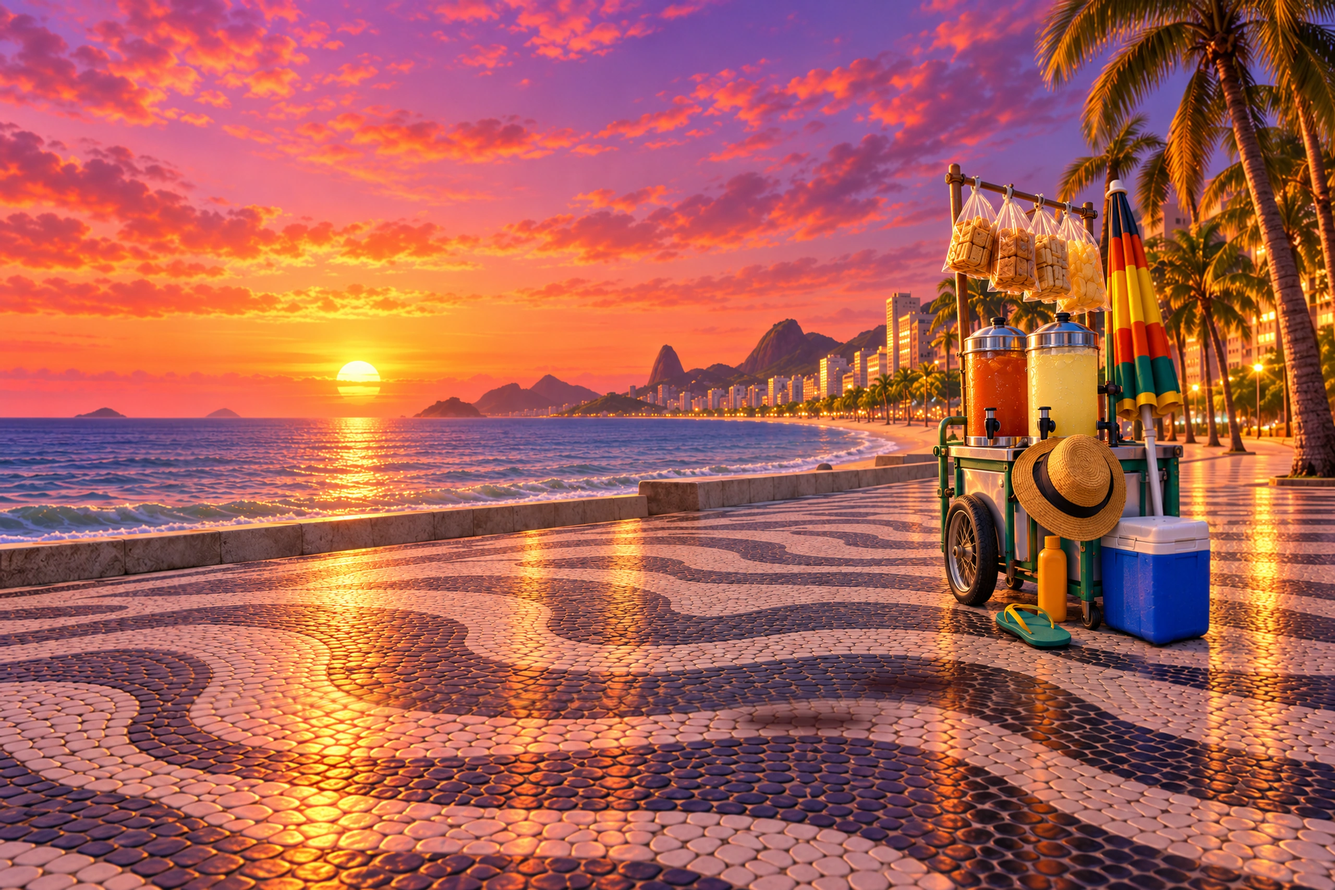
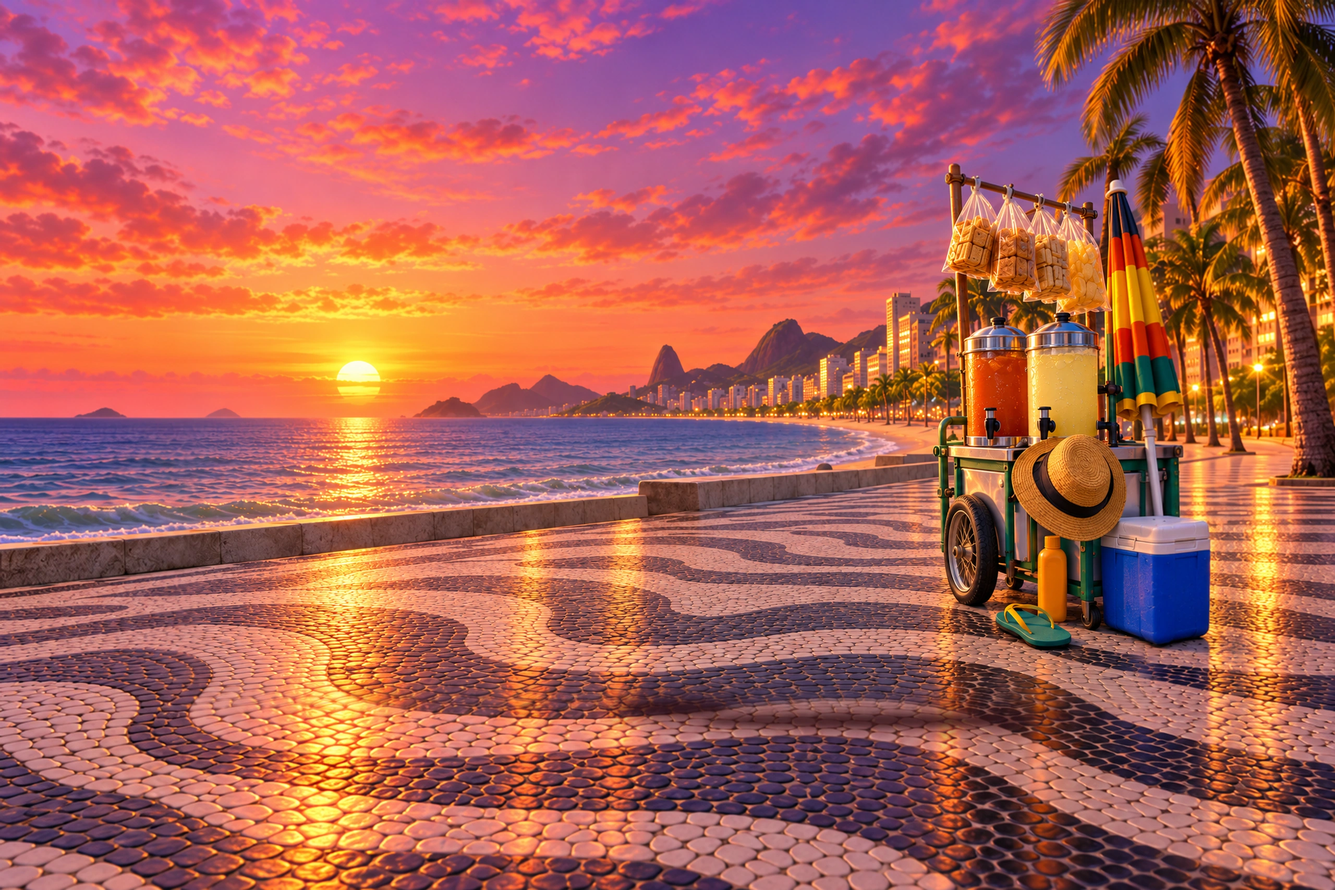
Vendedor pose 2 + letreiro 1 and Aposentado pose 4 + letreiro 1 exported for the menu; Aposentado's Instagram profile

Changed region(s): [[0.625, 0.7452, 0.8125, 0.8383], [0.4375, 0.7762, 0.5625, 0.8383]]

diff --git a/src/client/ui/insta.ts b/src/client/ui/insta.ts
@@ -56,11 +56,14 @@ export const INSTA_PERFIS:readonly InstaPerfil[]=Object.freeze([
     chips:chips('Regata 365','Só mais uma','No pump'),
     posts:posts('creatina_pura',['Registro do bíceps. Dia 412.','7.704','há 4 horas'],
       ['O pneu não ia se puxar sozinho.','6.091','há 8 horas'],['Shake: meu único relacionamento sério.','9.338','há 3 dias'])},
-  {id:'vendedor-praia',nome:'VENDEDOR',handle:'@VENDEDOR',letreiro:'Vendedor de Praia, reforço geladinho',seguidores:'47,3 mil',seguindo:'2.318',bio:'Olha a água, olha o mate!
-Aceito Pix.',
+  {id:'vendedor-praia',nome:'VENDEDOR',handle:'@VENDEDOR',letreiro:'Vendedor de Praia, reforço geladinho',seguidores:'47,3 mil',seguindo:'2.318',bio:'Olha a água, olha o mate!\nAceito Pix.',
     chips:chips('Chapéu de palha','Água gelada','Na areia quente'),
     posts:posts('quiosque_do_ze',['Selfie com o isopor. Gelo novinho.','2.214','há 1 hora'],
       ['Areia a 60 graus. O chinelo resiste.','3.870','há 5 horas'],['Vai uma geladinha, aventureiro?','5.402','há 1 dia'])},
+  {id:'aposentado',nome:'APOSENTADO',handle:'@APOSENTADO',letreiro:'Aposentado, experiência não falta',seguidores:'3.104',seguindo:'12',bio:'No meu tempo\no boss era maior.',
+    chips:chips('Colete de pesca','Vara no torno','Contando história'),
+    posts:posts('neto_favorito',['Consertei a vara. Ficou melhor que nova.','312','há 2 horas'],
+      ['O peixe era DESSE tamanho. Juro.','487','há 6 horas'],['Puxando o chefe do lago. Ele resistiu.','655','há 1 dia'])},
 ]);
 export const instaPerfil=(id:string):InstaPerfil|undefined=>INSTA_PERFIS.find(p=>p.id===id);
 
